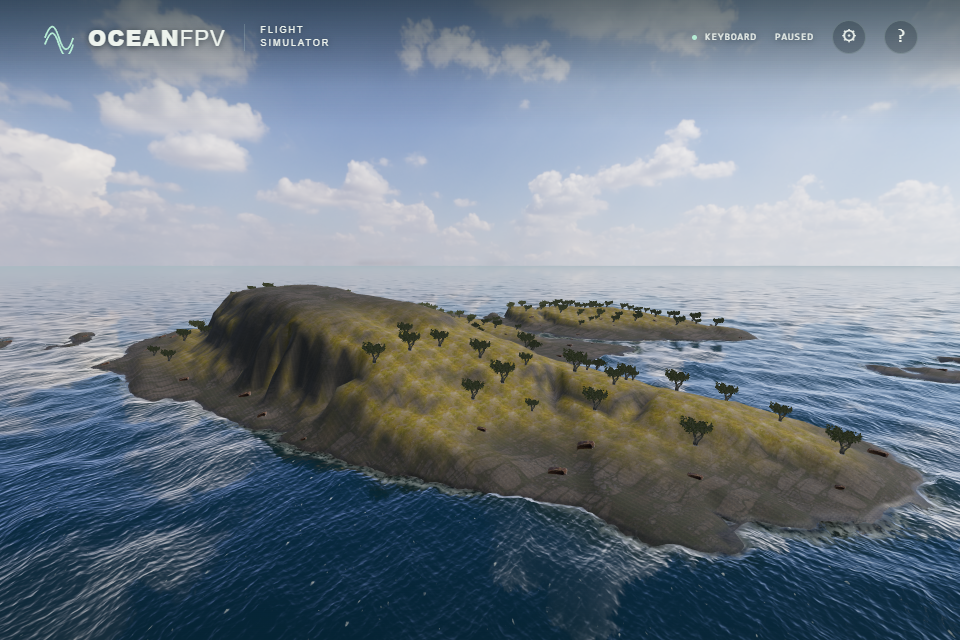
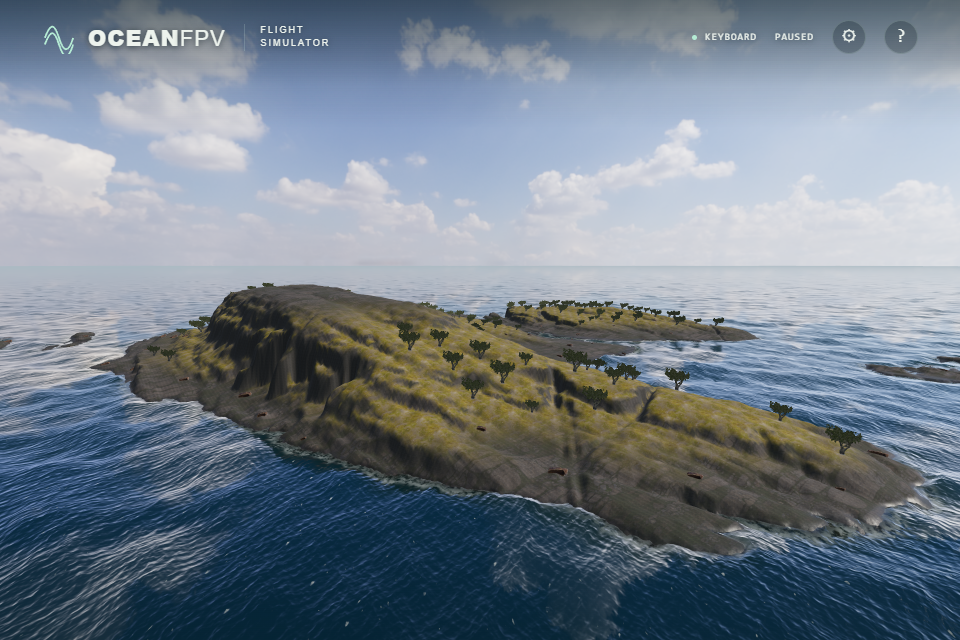
docs: document fine coastal relief and matched visual evidence

diff --git a/docs/HORNOYA_COAST.md b/docs/HORNOYA_COAST.md
@@ -14,25 +14,29 @@ npm run import:northeast -- artifacts/hornoya-source.f32
 
 The acquisition checks ETag `"62d5544c-243f8a70"`, exact HTTP206 ranges, response length and a 64 KiB header hash. It rejects complete-file responses, changed versions, truncated/oversized bodies, and transfers exceeding 16 MiB. The complete 608,143,984-byte TIFF was not downloaded or hashed. The verified acquisition transferred 3,407,872 bytes in nine requests. An adjacent `.ranges.json` records each requested range and hash.
 
[2 lines of base64/hex data omitted]
 
[2 lines of base64/hex data omitted]
 
 ## Integration and verification
 
-Rendering, triangle contacts, slopes, vegetation and the green ocean-depth channel use the same measured heights. Captured rocks follow the irregular shelves and require at least 80% of their bottom samples to sit inside actual ground. The new island has 80 accepted captured rocks and 167 trees on dry slopes. Normal total rock count is 219; missing-cliff recovery has 227. Fallback rocks use the same candidate positions.
+The northeastern mesh has 591,361 vertices and 1,179,648 triangles; the other island meshes retain 192 segments. Rendering, triangle contacts, slopes and vegetation use the fine grid. A dedicated nearest-sampled Float32 ocean texture uses those same heights and triangle diagonals. Inside the island extent it replaces the coarse green channel, rather than taking their maximum, which would incorrectly fill the finer valleys. The shared 193² depth input remains intact for the other islands and the separate captured-cliff field. Captured rocks require at least 80% of their bottom samples to sit inside actual ground. The new island has 79 accepted captured rocks and 157 trees on dry slopes. Normal total rock count is 218; missing-cliff recovery has 226. Fallback rocks use the same candidate positions.
 
-- All 133 unit tests and the strict build pass. Independent raw-pixel witnesses, both mesh triangle halves, every uploaded vertex, dry tree roots and rock support are covered. All three ship footprints remain in water through 360 route phases. Positive terrain cells fit within the existing 1900 m flight boundary; the farthest positive grid vertex is approximately 1614.014 m from the origin.
-- Native RTX4050/D3D11 scene, missing-cliff, rock fallback, partial texture fallback, ship movement/launch and terrain-contact checks pass. Both measured islands have twelve dry ray hits that contact the actual surface, while points 0.6 m above remain free. Normal material loading produces no network failures or browser errors; ground material samplers remain 10 of 16 available.
-- Native and SwiftShader pass 5,124 GPU nearshore cases and 896 mip cases. New-island depth targets cover land, waterline and depths through 8.2 m on both triangle halves. Existing tolerances are unchanged. Maximum native height/contact differences are 2.810/2.712 mm; SwiftShader 0.208/0.144 mm.
+- All 136 unit tests and the strict build pass. Independent raw-pixel witnesses, both mesh triangle halves, every uploaded vertex, dry tree roots and rock support are covered. All three ship footprints remain in water through 360 route phases. Every positive fine-grid terrain cell fits within the existing 1900 m flight boundary.
+- Native RTX4050/D3D11 scene, missing-cliff, rock fallback, partial texture fallback, ship movement/launch, keyboard flight and terrain-contact checks pass. Both measured islands have twelve dry ray hits that contact the actual surface, while points 0.6 m above remain free. Normal material loading produces no network failures or browser errors. Ground material samplers remain 10 of 16 available; the production water shader uses 14 of 16.
+- Native and SwiftShader pass 5,124 GPU nearshore cases, 896 mip cases and twelve direct bottom height/gradient reads. New-island depth targets cover land, waterline and depths through 8.2 m on both triangle halves. Direct reads also cover tall cliffs and the summit, where wave attenuation alone would hide a wrong land height. Existing tolerances are unchanged. Maximum native wave height/contact differences are 2.810/2.694 mm; SwiftShader 0.208/0.144 mm. Direct bottom maximum absolute differences are 0.000170 native and 0.000090 SwiftShader. Actual terrain/reef contacts also pass on SwiftShader.
 - Four actual renderer captures cover two cameras and day/evening light, with no browser errors or missing materials. The matched images below use RTX4050, a 1920×1280 ULTRA render buffer, effective FOV65 and wave/vessel time120. Both use eye (440,90,-400) looking at (820,20,-890); PNGs are 960×640. The original cone had a nominal 190 m height setting and a different centre; the camera is unchanged.
 
-Photographic terrain still shows repetition and smooth areas at this mesh resolution. Rock shapes and tree distribution are repeated game assets. Sustained performance, other GPUs, physical Xbox/USB radio acceptance and public deployment of this change remain separate checks.
+Photographic terrain still shows large repeated slab patterns; the finer mesh improves the silhouette and cliffs but does not resolve material repetition. Rock shapes and tree distribution are repeated game assets. The larger JSON increases the main bundle to approximately 4.18 MB (0.87 MB gzip). Sustained performance, other GPUs, physical Xbox/USB radio acceptance and public deployment of this change remain separate checks.
 
 Before:
 
 ![Former northeastern cone](images/northeast-procedural-before.png)
 
-After:
+Initial measured coast at 6.25 m spacing:
+
+![Initial measured northeastern coast](images/northeast-measured-coarse.png)
+
+Detailed measured coast at 1.5625 m spacing:
 
 ![Measured northeastern coast](images/northeast-measured-after.png)
